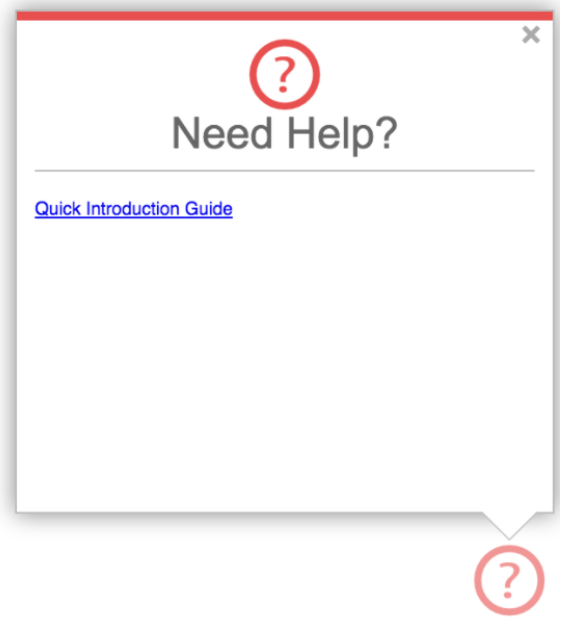
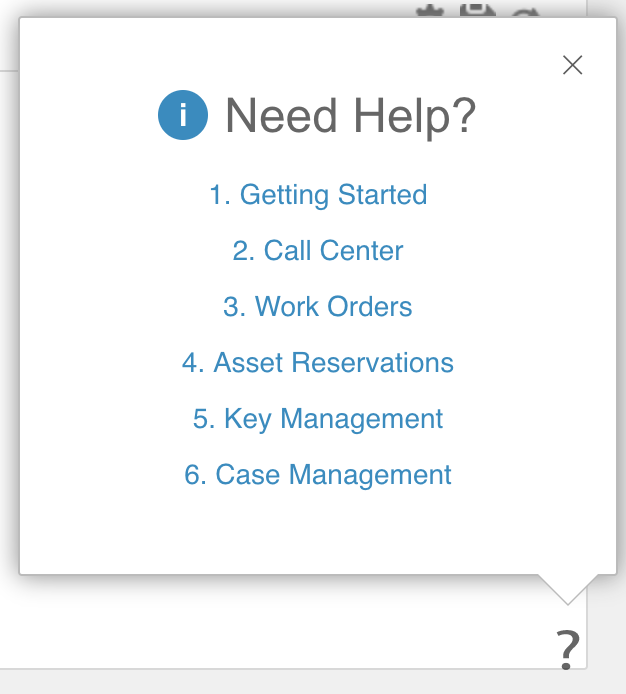
Update and tweak global css

diff --git a/src/packages/pendo-global/global.css b/src/packages/pendo-global/global.css
@@ -1,7 +1,101 @@
-@import '../pendo-base/base.css';
+@import '../pendo-base/_variables.css';
+
+._pendo-guide-container_ {
+  background-color: var(--white);
+  border-radius: 2px;
+  padding: 0;
+
+  & ._pendo-guide-content_ {
+    color: var(--graphite10);
+    font-size: 14px;
+    padding: 0;
+    text-align: center;
+
+    & h1 {
+      color: var(--graphite10);
+      font-size: 18px;
+      font-weight: normal;
+      line-height: normal;
+      padding: 20px 40px 2px 20px;
+      text-align: left;
+    }
+
+    & p,
+    & ol,
+    & ul {
+      color: var(--graphite10);
+      font-size: 14px;
+      line-height: 20px;
+      padding: 5px 20px;
+      text-align: left;
+    }
+
+    & ul {
+      list-style-type: disc;
+      margin-left: 15px;
+    }
+
+    & ol {
+      list-style-type: decimal;
+      margin-left: 15px;
+    }
+
+    & p {
+      margin: 10px 0;
+    }
+
+    & a {
+      color: var(--azure06);
+      text-decoration: none;
+    }
+
+    & .red-text {
+      color: #e84f4f;
+    }
+  }
+
+  & ._pendo-close-guide_ {
+    /* Close guide icon */
+    color: var(--graphite06);
+    display: inline;
+    font-weight: 200;
+    font-size: 22px;
+    top: 10px;
+    right: 15px;
+  }
+
+  & ._pendo-close-guide_:hover {
+    /* Close guide icon hover effects*/
+    color: var(--graphite10);
+  }
+}
 
 
-._pendo-guide-banner-top_ ._pendo-guide-container_ {
+/* Custom Button */
+._pendo-guide-container_ ._pendo-guide-content_ .custom-button {
+  background: #fff;
+  border: 0;
+  border-top: solid 1px var(--graphite03);
+  color: var(--azure06);
+  cursor: pointer;
+  display: block;
+  font-family: inherit;
+  font-size: 12px;
+  font-weight: bold;
+  height: 50px;
+  line-height: 50px;
+  text-align: center;
+  text-transform: capitalize;
+  width: 100%;
+  white-space: nowrap;
+
+  &:hover {
+    color: #2578a9;
+  }
+}
+
+/* Banner Styles */
+._pendo-guide-banner-top_ > ._pendo-guide-container_ {
   /* Guide border, shadow, background, etc. */
   border: solid 1px var(--azure06);
   background-color: var(--azure01);
@@ -9,9 +103,6 @@
   padding: 15px 0;
   margin: 5px auto 0 auto;
   width: 95%;
-}
-
-._pendo-guide-banner-top_ ._pendo-guide-container_ {
 
   & ._pendo-guide-content_ {
     /* Content area: use for font attributes, padding, etc. */
@@ -29,77 +120,48 @@
         font-size: 22px;
     top: 10px;
     right: 15px;
-  }
 
-  & ._pendo-close-guide_:hover {
-    /* Close guide icon hover effects*/
-    color: var(--graphite10);
+    &:hover {
+      /* Close guide icon hover effects*/
+      color: var(--graphite10);
+    }
   }
 }
 
-._pendo-guide-container_ {
-  background-color: var(--white);
-
-  & ._pendo-guide-content_ h1 {
-    color: var(--graphite10);
-    font-size: 18px;
-    font-weight: normal;
-    padding: 20px 40px 2px 20px;
-    text-align: left;
-  }
-
-  & ._pendo-guide-content_ p,
-  & ._pendo-guide-content_ ol,
-  & ._pendo-guide-content_ ul {
-    color: var(--graphite10);
-    font-size: 14px;
-    line-height: 20px;
-    padding: 5px 20px;
-    text-align: left;
-  }
-
-  & ._pendo-guide-content_ ul {
-    list-style-type: disc;
-    margin-left: 15px;
-  }
-
-  & ._pendo-guide-content_ ol {
-    list-style-type: decimal;
-    margin-left: 15px;
-  }
-
-  & ._pendo-guide-content_ p {
-    margin: 10px 0;
-  }
-
-  & ._pendo-guide-content_ a {
-    color: var(--azure06);
-    text-decoration: none;
-  }
-
-  & ._pendo-guide-content_ .custom-button {
-    background: #fff;
+/* Launcher Overrides */
+._pendo-launcher_ {
+  & ._pendo-launcher-content_ {
     border: 0;
-    border-top: solid 1px var(--graphite03);
-    color: var(--azure06);
-    cursor: pointer;
-    display: block;
-    font-family: inherit;
-    font-size: 12px;
-    font-weight: bold;
-    height: 50px;
-    line-height: 50px;
-    text-align: center;
-    text-transform: capitalize;
-    width: 100%;
-    white-space: nowrap;
   }
 
-  & ._pendo-guide-content_ .custom-button:hover {
-    color: #2578a9;
+  & ._pendo-launcher-header_ {
+    border-bottom: 0;
+    margin-top: 25px;
+    padding-bottom: 0;
+
+    & ._pendo-launcher-title_::before {
+      background-color: var(--azure06);
+      border-radius: 50%;
+      color: var(--white);
+      content: "i";
+      display: inline-block;
+      font-size: 16px;
+      font-weight: 700;
+      height: 25px;
+      line-height: 25px;
+      margin-right: 8px;
+      position: relative;
+      text-align: center;
+      top: -3px;
+      width: 25px;
+    }
+
+    & img {
+      display: none;
+    }
   }
 
-  & ._pendo-guide-content_ .red-text {
-    color: #e84f4f;
+  & ._pendo-launcher-guide-listing_ ._pendo-launcher-item_ {
+    margin-bottom: 0;
   }
 }

diff --git a/src/packages/pendo-base/base.css b/src/packages/pendo-base/base.css
@@ -1,37 +1,1 @@
-/* --- Selectors from Global CSS --- */
-
 @import '_variables.css';
-
-._pendo-guide-container_ {
-  /* Guide border, shadow, background, etc. */
-  border: solid 1px var(--azure06);
-  background-color: var(--azure01);
-  border-radius: 2px;
-  padding: 15px 0;
-  margin: 5px auto 0 auto;
-  width: 95%;
-
-
-  & ._pendo-guide-content_ {
-    /* Content area: use for font attributes, padding, etc. */
-    text-align: center;
-    padding: 0;
-    color: var(--graphite10);
-    font-size: 14px;
-  }
-
-  & ._pendo-close-guide_ {
-    /* Close guide icon */
-    color: var(--graphite06);
-    display: inline;
-    font-weight: 200;
-    font-size: 22px;
-    top: 10px;
-    right: 15px;
-  }
-
-  & ._pendo-close-guide_:hover {
-    /* Close guide icon hover effects*/
-    color: var(--graphite10);
-  }
-}
